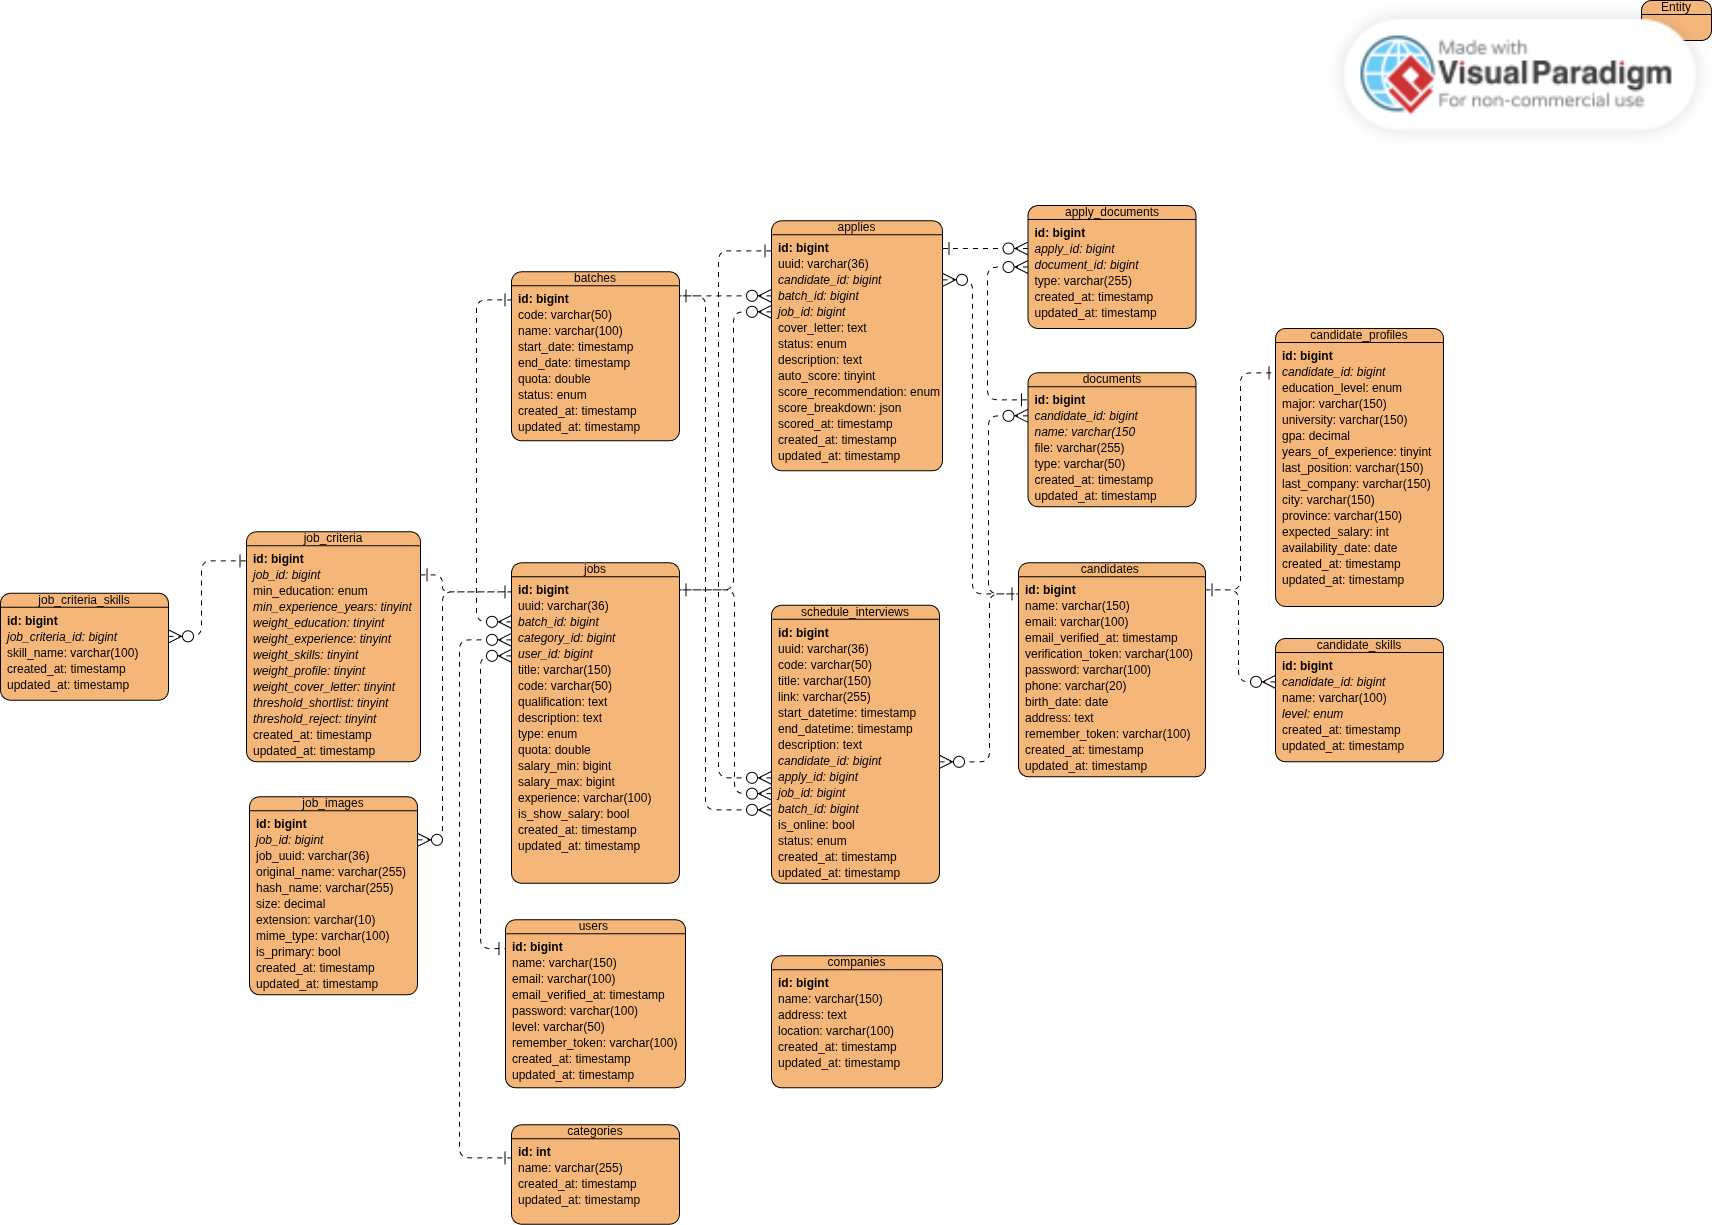
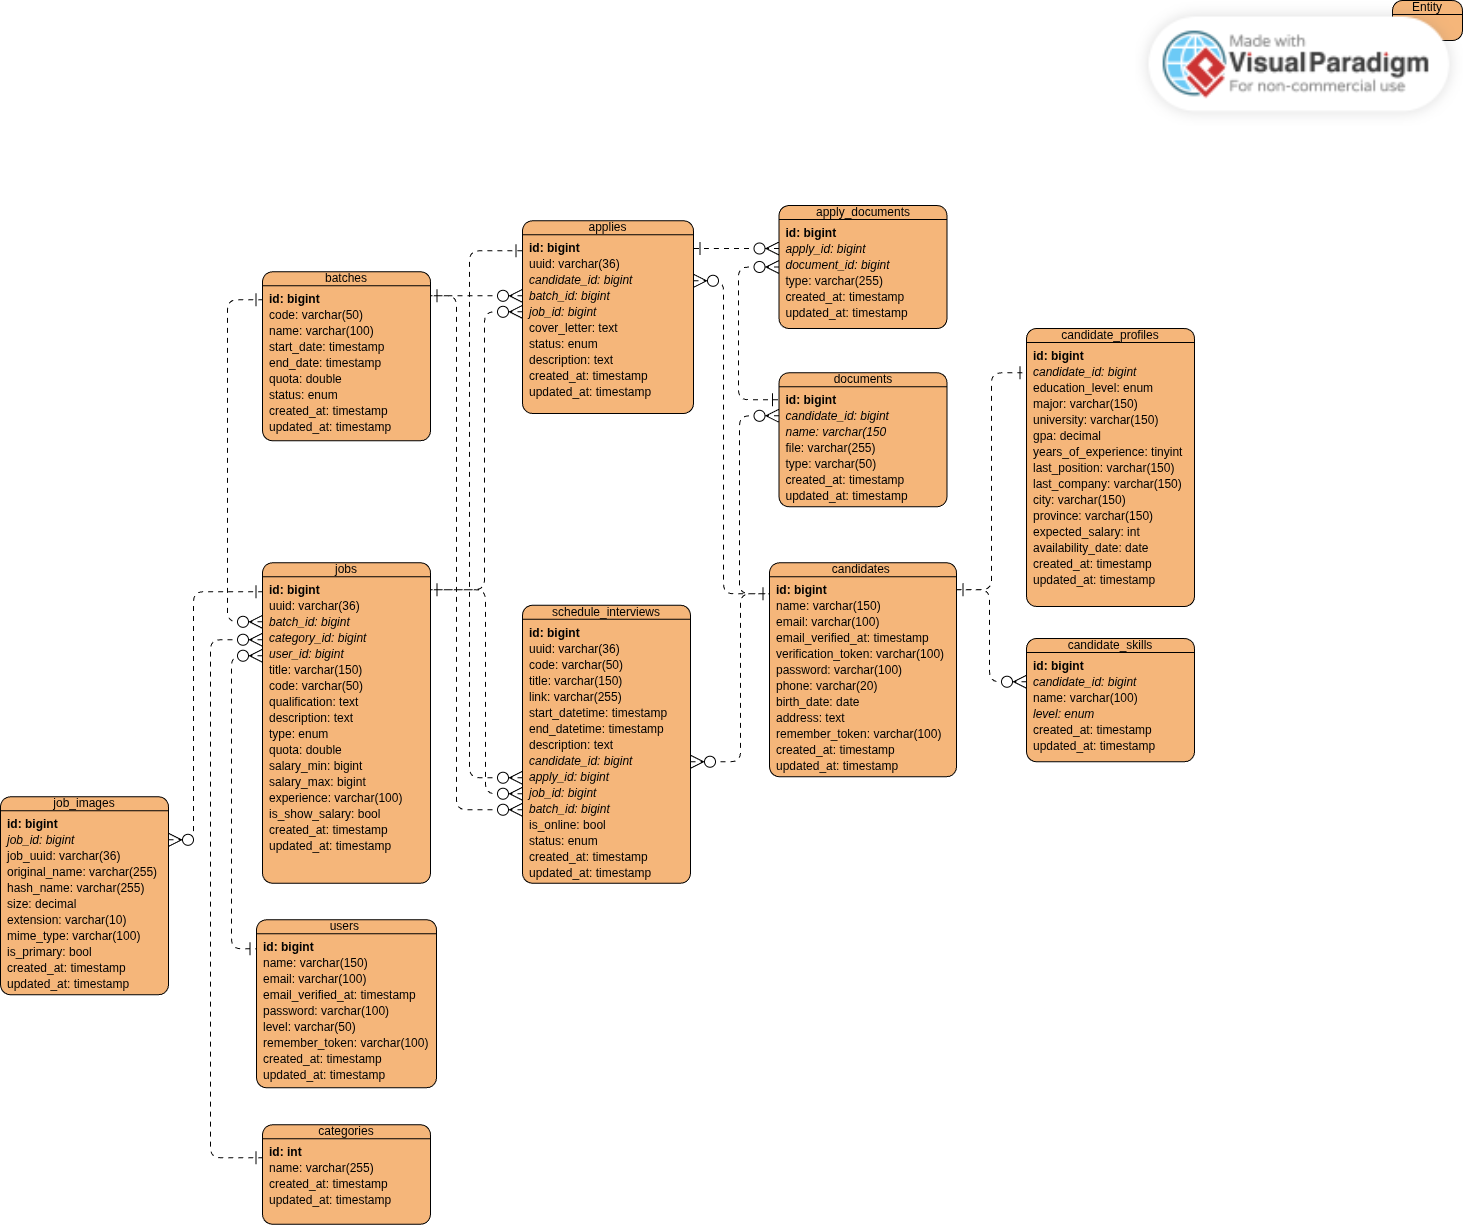
refactor: remove auto-scoring engine references from documentation and diagrams

diff --git a/README.md b/README.md
@@ -6,7 +6,7 @@
 
 <p align="center">
   <strong>Sistem E-Recruitment & Talent Acquisition Resmi Klinik Keluarga</strong><br>
-  Platform digital terpadu untuk publikasi lowongan kerja, pengelolaan berkas kandidat medis/umum, penilaian kualifikasi otomatis (Auto-Scoring Engine), dan penjadwalan wawancara kerja.
+  Platform digital terpadu untuk publikasi lowongan kerja, pengelolaan berkas kandidat medis/umum, evaluasi kualifikasi pelamar, dan penjadwalan wawancara kerja.
 </p>
 
 <p align="center">
@@ -26,7 +26,7 @@
 
 Sistem ini memfasilitasi integrasi dua arah:
 1. **Portal Publik & Pelamar (*Candidate Area*)**: Memudahkan pencari kerja mencari posisi lowongan, melengkapi data profil/pendidikan, mengunggah berkas CV/STR, melamar pekerjaan secara daring, serta memantau status kelulusan seleksi.
-2. **Portal HRD & Administrator (*Admin Area*)**: Membantu tim manajemen rekrutmen mengelola master gelombang (*batch*), mempublikasikan lowongan, mengevaluasi berkas pelamar berbantukan kalkulasi skor otomatis (*Auto-Scoring Engine*), serta menjadwalkan sesi interview dengan notifikasi surel terintegrasi.
+2. **Portal HRD & Administrator (*Admin Area*)**: Membantu tim manajemen rekrutmen mengelola master gelombang (*batch*), mempublikasikan lowongan, mengevaluasi dan menyeleksi berkas pelamar secara digital, serta menjadwalkan sesi interview dengan notifikasi surel terintegrasi.
 
 ---
 
@@ -44,15 +44,7 @@ Sistem ini memfasilitasi integrasi dua arah:
 ### 🏢 Portal HRD / Admin (Admin Area)
 * **Dashboard Statistik & Analisis**: Ringkasan data gelombang aktif, kuota pendaftar, pelamar diterima, serta visualisasi grafik pendaftaran 12 bulan terakhir.
 * **Manajemen Gelombang Rekrutmen (*Batch Management*)**: Pengaturan tanggal mulai, batas akhir pendaftaran, kuota kandidat, serta status aktivasi gelombang.
-* **Manajemen Kategori & Lowongan**: Pembuatan rincian kualifikasi lowongan, benefit, rentang gaji, batas kuota, serta pengaturan bobot kriteria kualifikasi.
-* **Mesin Penilaian Otomatis (*Auto-Scoring Engine*)**:
-  * Menghitung skor kelayakan pelamar secara objektif (skala 0–100) berdasarkan 5 parameter:
-    1. Kesesuaian Jenjang Pendidikan Minimal
-    2. Kesesuaian Total Pengalaman Kerja
-    3. Kecocokan Keahlian Wajib (*Required Skills Match*)
-    4. Kelengkapan Profil & Data Diri
-    5. Kelengkapan Berkas Dokumen Pendukung & Surat Lamaran
-  * Memberikan rekomendasi otomatis (*Recommended / Review / Not Suitable*) untuk membantu tim HRD.
+* **Manajemen Kategori & Lowongan**: Pembuatan rincian kualifikasi lowongan, benefit, rentang gaji, batas kuota, serta publikasi lowongan kerja.
 * **Direktori Akun Pelamar (*Talent Pool Directory*)**: Pencarian basis data seluruh kandidat terdaftar dengan tampilan *Dossier Evaluasi Profil*.
 * **Peninjauan Lamaran & Evaluasi Seleksi**: Penelaahan berkas lamaran per posisi, pengubahan status seleksi, dan penulisan catatan review.
 * **Penjadwalan Wawancara (*Interview Scheduler*)**:
